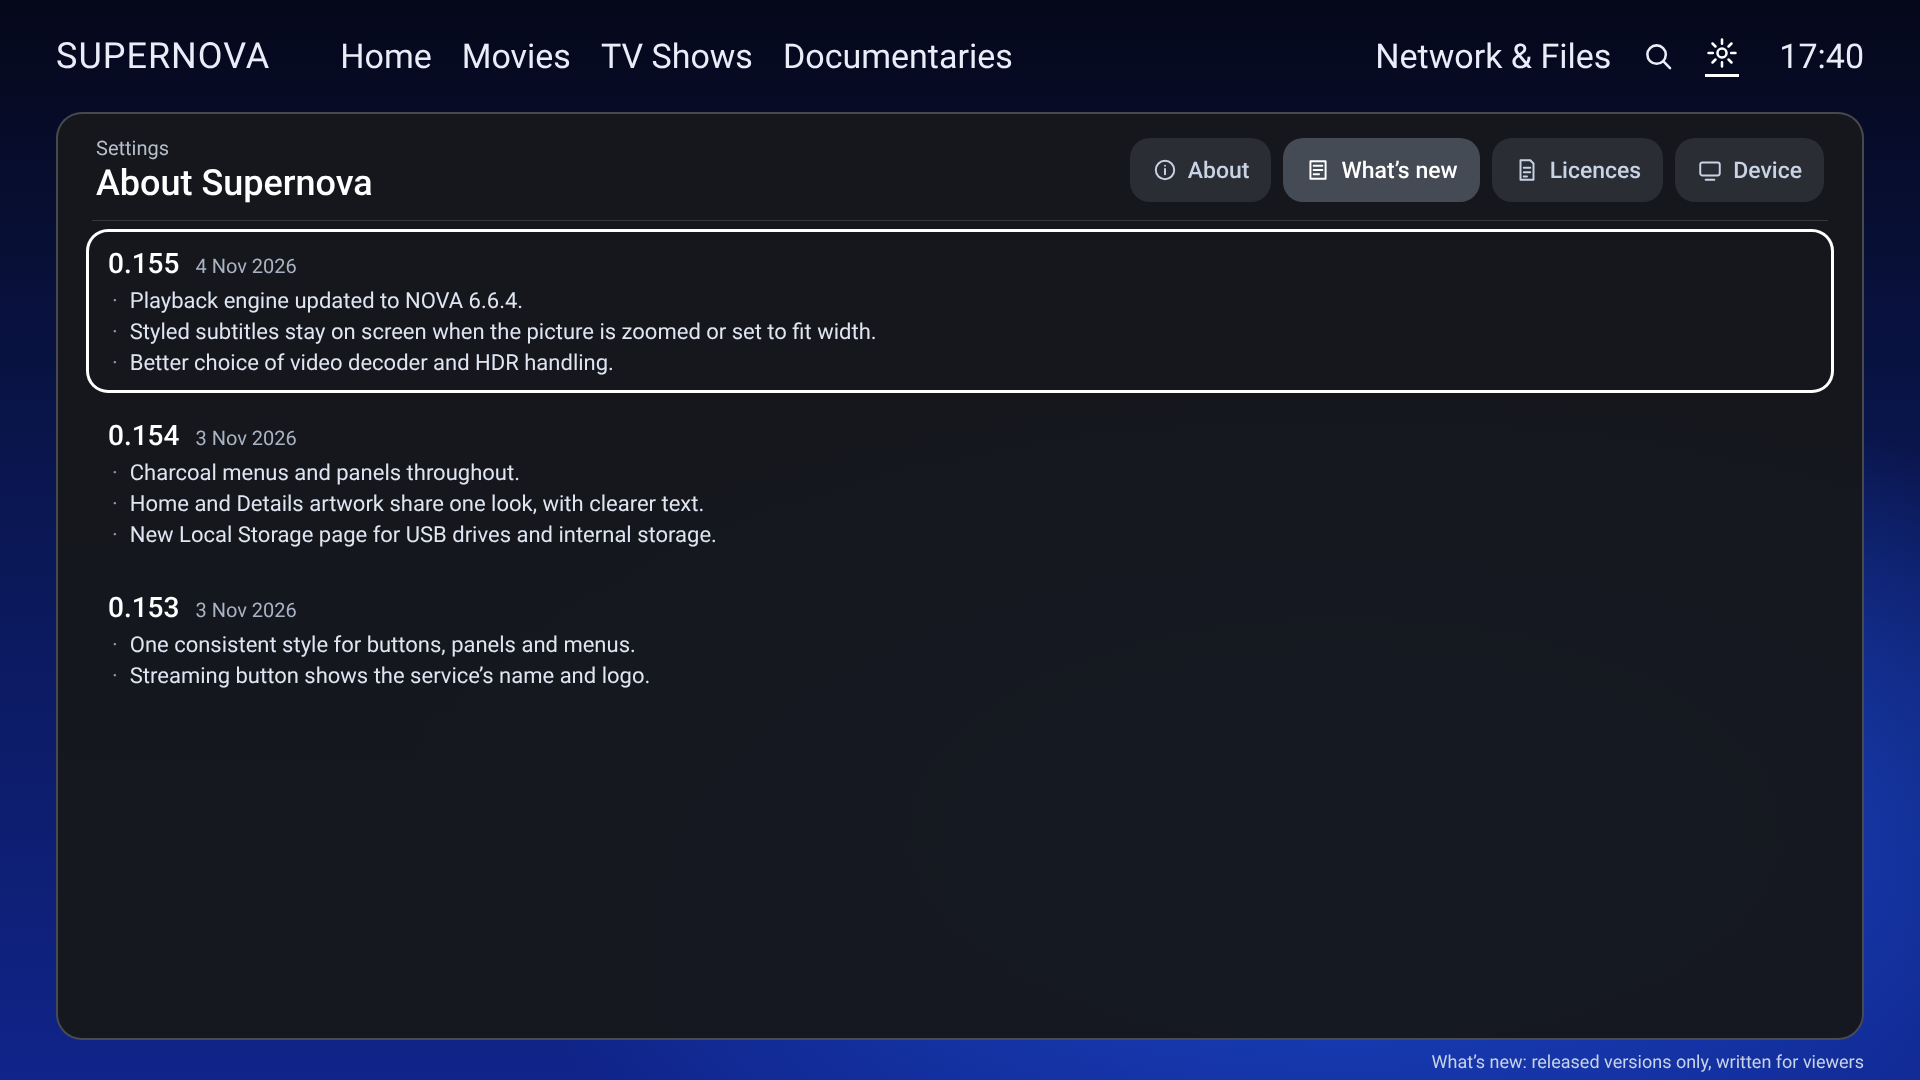
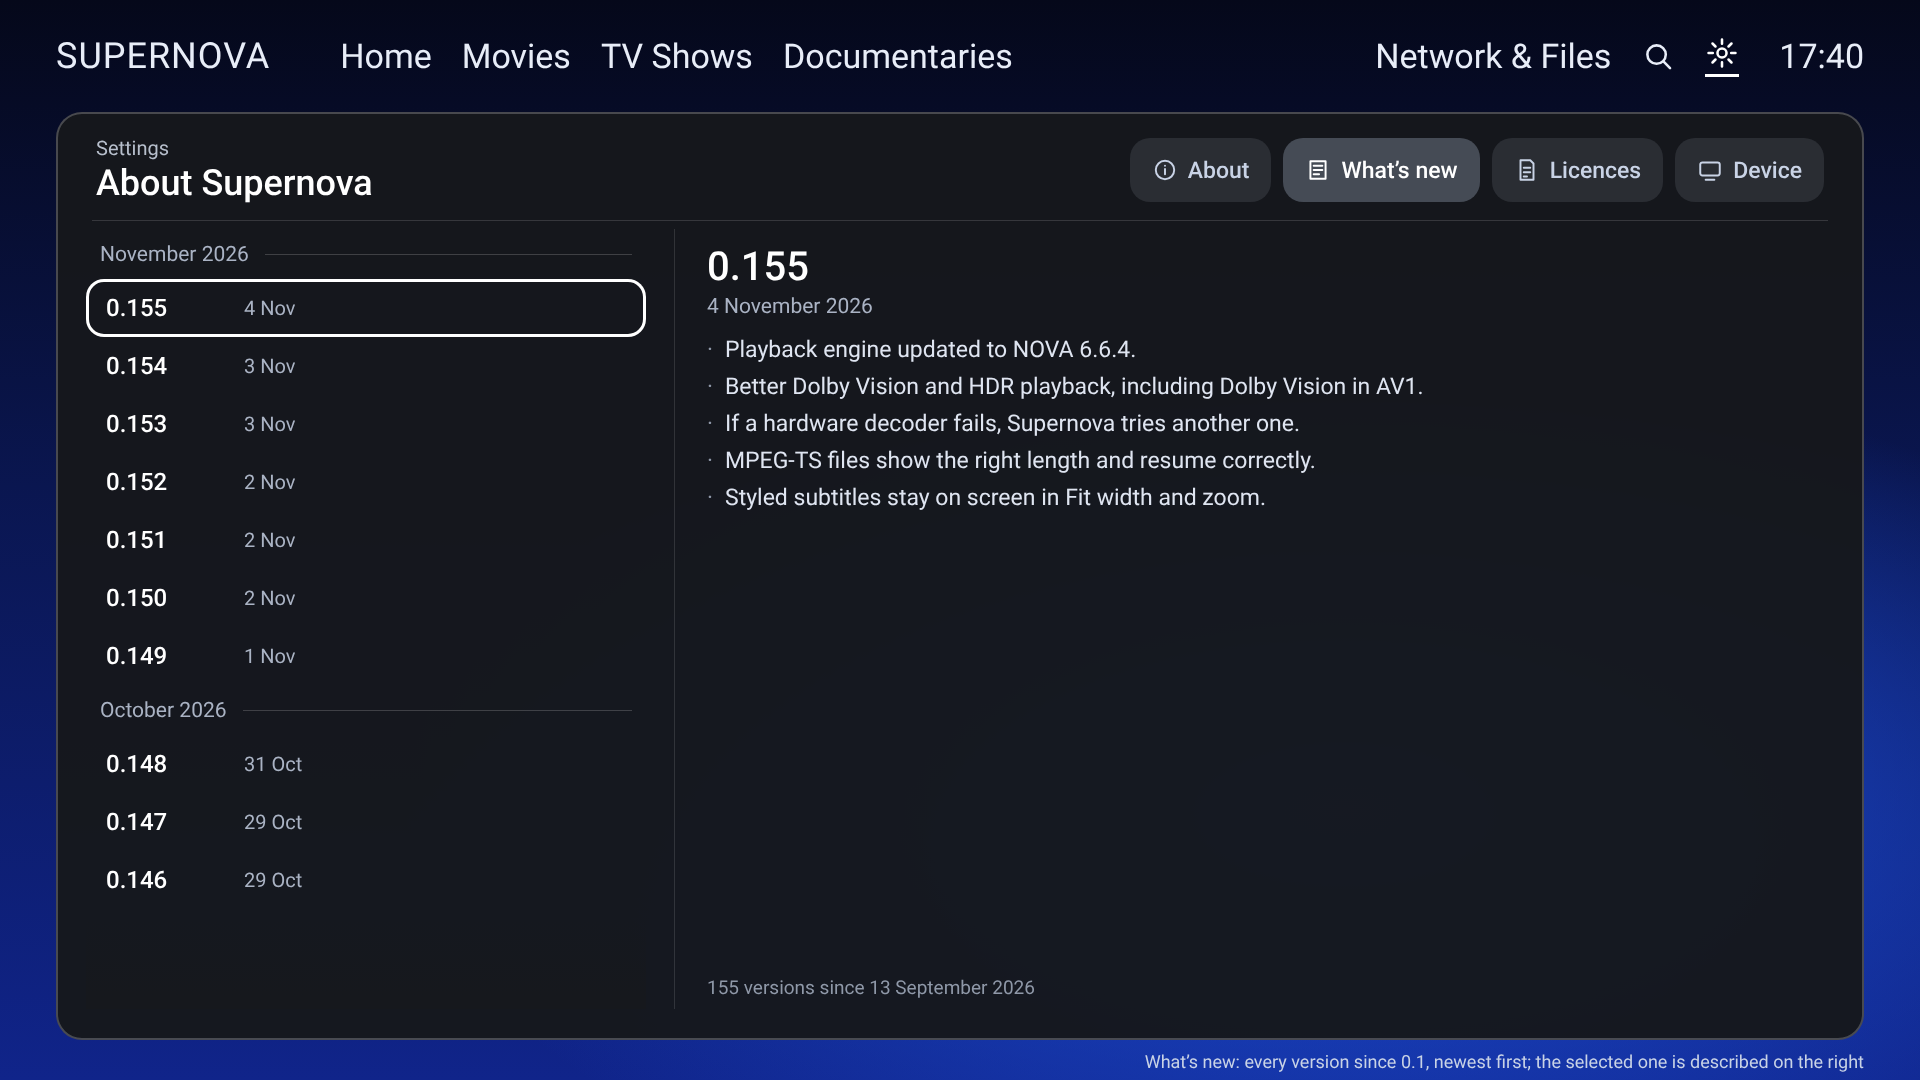
Settings proposal: About — full version history, credits page, licence detail
Claude-Session: https://claude.ai/code/session_01FtDZqamY6pdaUKwc7fqgiA

diff --git a/docs/design/proposals/settings/about.js b/docs/design/proposals/settings/about.js
@@ -33,10 +33,47 @@ const info = (t, v) => `<div class="kv"><span>${t}</span><b>${v}</b></div>`;
 const about = shell(0,
   `<div class="hero"><div class="logo">S</div><div><div class="an">Supernova</div><div class="av">Version 0.155 · 4 November 2026</div><div class="ab">A video player for Android TV, based on NOVA Video Player 6.6.4.</div></div></div>` +
   row('Credits & acknowledgements', 'NOVA, Archos, TMDB, JustWatch, Trakt and OpenSubtitles.', val(''), true), '');
-const rel = [['0.155', '4 Nov 2026', ['Playback engine updated to NOVA 6.6.4.', 'Styled subtitles stay on screen when the picture is zoomed or set to fit width.', 'Better choice of video decoder and HDR handling.']],
-  ['0.154', '3 Nov 2026', ['Charcoal menus and panels throughout.', 'Home and Details artwork share one look, with clearer text.', 'New Local Storage page for USB drives and internal storage.']],
-  ['0.153', '3 Nov 2026', ['One consistent style for buttons, panels and menus.', 'Streaming button shows the service’s name and logo.']]];
-const news = shell(1, rel.map(([v, d, items], i) => `<div class="rel${i === 0 ? ' f' : ''}"><div class="rh"><b>${v}</b><span>${d}</span></div>${items.map(t => `<div class="ri">${t}</div>`).join('')}</div>`).join(''), '');
+const esc = t => t.replace(/&/g, '&amp;');
+const histTop = [['November 2026', [['0.155', '4 Nov'], ['0.154', '3 Nov'], ['0.153', '3 Nov'], ['0.152', '2 Nov'], ['0.151', '2 Nov'], ['0.150', '2 Nov'], ['0.149', '1 Nov']]],
+  ['October 2026', [['0.148', '31 Oct'], ['0.147', '29 Oct'], ['0.146', '29 Oct']]]];
+const histEnd = [['September 2026', [['0.19', '16 Sep'], ['0.17', '15 Sep'], ['0.16', '15 Sep'], ['0.15', '15 Sep'], ['0.14', '15 Sep', 1], ['0.13', '15 Sep'], ['0.12', '15 Sep'], ['0.11', '14 Sep'], ['0.10', '14 Sep'], ['0.9', '14 Sep'], ['0.8', '14 Sep'], ['0.7', '14 Sep', 1], ['0.6', '14 Sep'], ['0.5', '14 Sep'], ['0.1 – 0.4', '13–14 Sep', 4]]]];
+const detail = {
+  '0.155': ['4 November 2026', ['Playback engine updated to NOVA 6.6.4.', 'Better Dolby Vision and HDR playback, including Dolby Vision in AV1.', 'If a hardware decoder fails, Supernova tries another one.', 'MPEG-TS files show the right length and resume correctly.', 'Styled subtitles stay on screen in Fit width and zoom.']],
+  '0.8': ['14 September 2026', ['A new Home screen: compact rows, a slate look and real tabs for each section.']] };
+const hrow = ([v, d, quiet], sel) => quiet
+  ? `<div class="hv q"><b>${v}</b><span>${quiet > 1 ? quiet + ' test builds · no visible changes' : 'Test build · no visible changes'}</span></div>`
+  : `<div class="hv${sel ? ' f' : ''}"><b>${v}</b><span>${d}</span></div>`;
+const histPage = (groups, pick, fadeTop) => { const [date, items] = detail[pick];
+  const list = groups.map(([m, rows]) => `<div class="csec2"><span>${m}</span><i></i></div>` + rows.map(r => hrow(r, r[0] === pick)).join('')).join('');
+  return shell(1, `<div class="hist"><div class="hl${fadeTop ? ' end' : ''}"><div class="hls">${list}</div>${fadeTop ? '<div class="hfade top"></div>' : '<div class="hfade"></div>'}</div>` +
+    `<div class="hd"><div class="hdv">${pick}</div><div class="hdd">${date}</div>${items.map(t => `<div class="ri">${t}</div>`).join('')}${pick === '0.8' ? '' : '<div class="hcount">155 versions since 13 September 2026</div>'}</div></div>`, ''); };
+const news = histPage(histTop, '0.155', false);
+const newsEnd = histPage(histEnd, '0.8', true);
+const credits = [['Where Supernova comes from', [['NOVA Video Player', 'The app Supernova is built on', 'Supernova is based on NOVA Video Player 6.6.4. Thank you to the NOVA project and everyone who has worked on it. Supernova changes the app in many places; the original notices are kept under Licences.'],
+  ['Archos Video Player Community Edition', 'Where NOVA itself began', 'NOVA grew out of Archos Video Player Community Edition. Thank you to Archos and its original contributors.']]],
+  ['Information and services', [['TMDB', 'Film and TV details and artwork', 'This product uses the TMDB API but is not endorsed or certified by TMDB.'],
+  ['JustWatch, via TMDB', 'Where to Watch', 'Where a title is available comes from JustWatch through TMDB. Availability can change.'],
+  ['Trakt', 'Optional watch history sync', 'Signing in is optional and uses your own Trakt account.'],
+  ['OpenSubtitles.com', 'Optional subtitle downloads', 'Uses your own OpenSubtitles.com account and its limits.']]]];
+const creditsPage = shell(0, `<div class="crumb2">About › Credits &amp; acknowledgements</div>` + credits.map(([g, items]) => `<div class="csec2"><span>${g}</span><i></i></div>` +
+  items.map(([n, r, t], i) => `<div class="cr${g.startsWith('Where') && i === 0 ? ' f' : ''}"><div class="crn"><b>${n}</b><span>${r}</span></div><div class="crt">${t}</div></div>`).join('')).join('') +
+  `<div class="disc">No endorsement by any of these projects or services is implied.</div>`, '');
+const notice = `FFmpeg n9.0.2
+
+# License
+
+Most files in FFmpeg are under the GNU Lesser General Public License version 2.1
+or later (LGPL v2.1+). Read the file COPYING.LGPLv2.1 for details. Some other
+files have MIT/X11/BSD-style licenses. In combination the LGPL v2.1+ applies to
+FFmpeg.
+
+Some optional parts of FFmpeg are licensed under the GNU General Public License
+version 2 or later (GPL v2+). See the file COPYING.GPLv2 for details. None of
+these parts are used by default, you have to explicitly pass --enable-gpl to
+configure to activate them. In this case, FFmpeg's license changes to GPL v2+.`;
+const licPage = shell(2, `<div class="crumb2">Licences › Playback engine</div><div class="lh"><div><div class="lhn">FFmpeg</div><div class="lhs">Reads and decodes almost every video and audio format</div></div></div>` +
+  `<div class="lfacts"><span><i>Version</i>9.0.2, with security fixes</span><span><i>Licence</i>LGPL 2.1 or later</span><span><i>Website</i>ffmpeg.org/legal.html</span></div>` +
+  `<div class="csec2"><span>Licence text</span><i></i></div><div class="ltext f"><pre>${notice}</pre><div class="hfade"></div></div>`, '');
 const libs = [['App libraries', [['AndroidX', 'Apache 2.0'], ['OkHttp', 'Apache 2.0'], ['Retrofit', 'Apache 2.0'], ['jcifs-ng (Windows shares)', 'LGPL 2.1'], ['sshj (SFTP)', 'Apache 2.0'], ['sardine-android (WebDAV)', 'Apache 2.0']]],
   ['Playback engine', [['FFmpeg', 'LGPL 2.1'], ['libass (styled subtitles)', 'ISC'], ['dav1d (AV1)', 'BSD 2-Clause'], ['HarfBuzz', 'MIT']]]];
 const lic = shell(2, `<div class="srch2">${ic('search', 26)}<span>Search 66 licences</span></div>` + libs.map(([g, items]) => `<div class="csec2"><span>${g}</span><i></i></div>` + items.map(([n, l], i) => `<div class="lr${g === 'App libraries' && i === 0 ? ' f' : ''}"><span>${n}</span><span class="lv">${l}</span>${ic('chev', 22)}</div>`).join('')).join(''), '');
@@ -46,7 +83,10 @@ const dev = shell(3,
   `<div class="csec2"><span>Library</span><i></i></div>` + info('In your library', '85 films · 324 shows · 1,726 episodes') + info('Sources', '2 · USB drive and Put.io'), '');
 const shots = [
   ['26-about.png', about, 'About: version, date and NOVA base said once; credits one step away'],
-  ['27-whats-new.png', news, 'What’s new: released versions only, written for viewers'],
+  ['27-whats-new.png', news, 'What’s new: every version since 0.1, newest first; the selected one is described on the right'],
+  ['30-whats-new-start.png', newsEnd, 'The start of the list: test builds with no visible change are shown as one quiet line'],
+  ['31-credits.png', creditsPage, 'Credits & acknowledgements: opened from About; Back returns'],
+  ['32-licence.png', licPage, 'One licence opened: what it is, version, licence, website, then the full notice to scroll'],
   ['28-licences.png', lic, 'Licences: search, grouped into app libraries and playback engine'],
   ['29-device.png', dev, 'Device: device, decoders and library in plain words'],
 ];
@@ -97,6 +137,18 @@ body{width:1920px;height:1080px;overflow:hidden;font-family:R;color:#fff;positio
 .csec2{display:flex;align-items:center;gap:16px;height:50px;padding:0 14px;font-size:21px;color:#aab3c4}.csec2 i{flex:1;height:1px;background:rgba(255,255,255,.18)}
 .lr{display:flex;align-items:center;gap:20px;height:62px;padding:0 22px;border-radius:20px;font-size:24px;font-weight:500}.lr.f{box-shadow:inset 0 0 0 3px #fff}.lr span:first-child{flex:1}.lv{font-weight:400;color:#c9d3e6;font-size:21px}.lr svg{color:#8f98a8}
 .kv{display:flex;align-items:center;height:58px;padding:0 22px;font-size:23px}.kv span{width:320px;color:#c9d3e6}.kv b{font-weight:500}
+.hist{display:flex;gap:28px;height:780px}.hl{position:relative;width:560px;flex:none;overflow:hidden}.hls{position:absolute;left:0;right:0;top:0}.hl.end .hls{top:auto;bottom:0}
+.hv{display:flex;align-items:center;gap:18px;height:58px;padding:0 20px;border-radius:18px}.hv b{font-size:24px;font-weight:500;width:120px}.hv span{font-size:20px;color:#aab3c4}.hv.f{box-shadow:inset 0 0 0 3px #fff}
+.hv.q b{color:#8f98a8;font-weight:400}.hv.q span{color:#7d8696}
+.hfade{position:absolute;left:0;right:0;bottom:0;height:90px;background:linear-gradient(0deg,#16181d 15%,rgba(22,24,29,0))}.hfade.top{top:0;bottom:auto;background:linear-gradient(180deg,#16181d 15%,rgba(22,24,29,0))}
+.hd{flex:1;border-left:1px solid rgba(255,255,255,.12);padding:14px 0 0 32px;position:relative}.hdv{font-size:40px;font-weight:500}.hdd{font-size:21px;color:#aab3c4;margin:4px 0 18px}.hd .ri{font-size:23px;margin:10px 0 0}
+.hcount{position:absolute;left:32px;bottom:10px;font-size:19px;color:#8f98a8}
+.crumb2{font-size:20px;color:#aab3c4;margin:6px 14px 4px}
+.cr{border-radius:20px;padding:14px 22px;margin-bottom:4px}.cr.f{box-shadow:inset 0 0 0 3px #fff}.crn{display:flex;align-items:baseline;gap:16px}.crn b{font-size:25px;font-weight:500}.crn span{font-size:20px;color:#aab3c4}.crt{font-size:21px;color:#dfe5f1;margin-top:6px;line-height:1.4;max-width:1500px}
+.disc{font-size:19px;color:#8f98a8;margin:14px 22px}
+.lh{margin:10px 14px 16px}.lhn{font-size:38px;font-weight:500}.lhs{font-size:22px;color:#c9d3e6;margin-top:4px}
+.lfacts{display:flex;gap:48px;margin:0 14px 10px;font-size:22px}.lfacts i{font-style:normal;color:#aab3c4;margin-right:12px}
+.ltext{position:relative;border-radius:20px;background:#121418;margin:8px 0 0;height:560px;overflow:hidden;padding:20px 26px}.ltext.f{box-shadow:inset 0 0 0 3px #fff}.ltext pre{font-family:R;font-size:20px;line-height:1.5;color:#dfe5f1;white-space:pre-wrap;margin:0}.ltext .hfade{background:linear-gradient(0deg,#121418 15%,rgba(18,20,24,0))}
 .label{z-index:20;position:absolute;right:56px;bottom:8px;font-size:18px;color:#c9d3e6}`;
 (async () => { const b = await chromium.launch(); const t = await b.newPage({ viewport: { width: 1920, height: 1080 } });
   for (const [f, body, label] of shots) {

diff --git a/docs/0.155/OWNER_NOTES.md b/docs/0.155/OWNER_NOTES.md
@@ -486,4 +486,11 @@ Codex's branch `codex/0155-code-2026-11-04` (DP-01…DP-07, TV-only stages). **N
 - **Bug found:** `assets/foundation/credits.json` still says "based on Nova Video Player 6.6.2"; 0.155 uses 6.6.4.
   Fix in 0.156.
 - The "S" tile stands in for the app icon.
+- **What's new, full history** (`27`, `30`, owner): every version since 0.1 (13 Sep 2026), newest first, grouped by
+  month: list on the left, the focused version's changes on the right. 155 versions; 51 with visible changes, the rest
+  shown as one quiet "test build · no visible changes" line (runs merged, e.g. 0.46–0.132 = 87 builds). Every note in
+  `release-history.json` is rewritten for viewers when coded.
+- **Credits** (`31`): opens from About as a page in the same panel; Back returns. Plain-word text from `credits.json`
+  (NOVA corrected to 6.6.4), TMDB's required wording kept exactly.
+- **One licence opened** (`32`): name, what it does, version, licence, website, then the full notice in a scrolling box.
 - **Status:** awaiting the owner's review.
